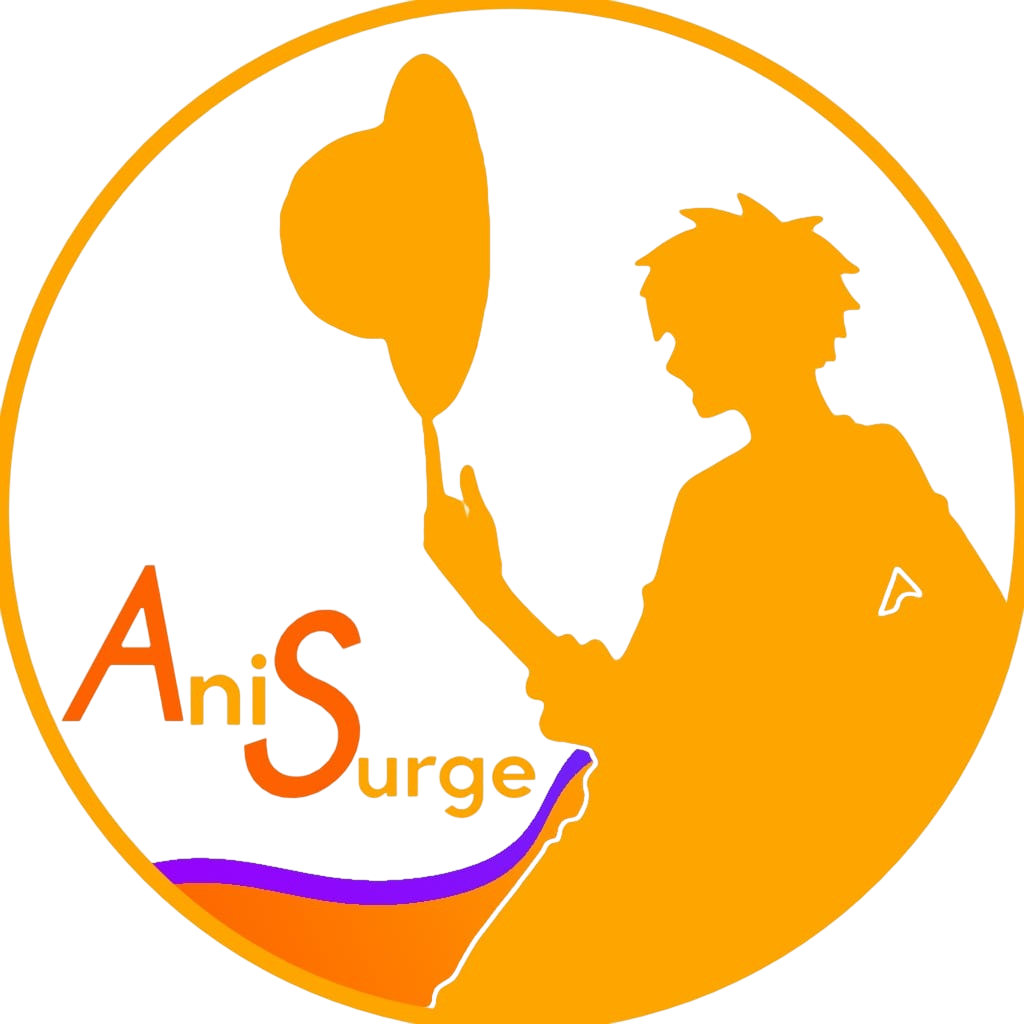
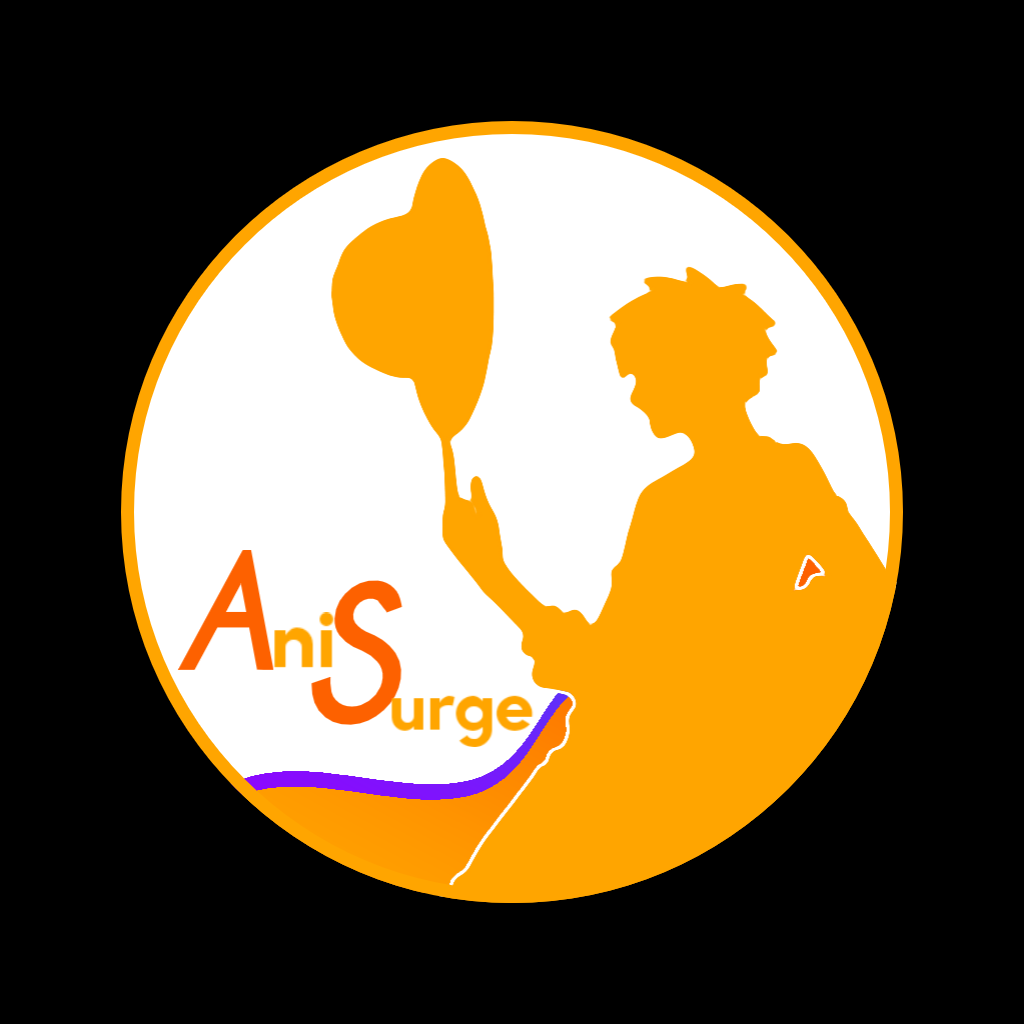
Enhance search functionality with advanced filtering and genre selection
- Add comprehensive search filters for anime type, genre, and sorting
- Implement dynamic filter UI with scrollable genre and type options
- Update search API integration to support advanced filtering
- Modify search screen layout to accommodate new filter section
- Update splash screen and app icon assets
- Refactor search component with improved state management

diff --git a/app/search.tsx b/app/search.tsx
@@ -1,10 +1,22 @@
-import { View, Text, StyleSheet, FlatList, Image, TouchableOpacity, ActivityIndicator, TextInput } from 'react-native';
+import { View, Text, StyleSheet, FlatList, Image, TouchableOpacity, ActivityIndicator, TextInput, ScrollView } from 'react-native';
 import { useEffect, useState } from 'react';
 import { useLocalSearchParams, router } from 'expo-router';
 import { LinearGradient } from 'expo-linear-gradient';
 import { MaterialIcons, Ionicons } from '@expo/vector-icons';
 import { useMyListStore } from '../store/myListStore';
+import { API_BASE, ENDPOINTS } from '../constants/api';
 
+// Add types for filters
+type FilterType = 'ALL' | 'TV' | 'MOVIE' | 'OVA' | 'ONA' | 'SPECIAL';
+type SortType = 'POPULARITY' | 'NEWEST' | 'TITLE';
+
+// Add genre type
+type Genre = {
+  id: string;
+  name: string;
+};
+
+// Update SearchAnime type
 type SearchAnime = {
   id: string;
   title: string;
@@ -14,7 +26,27 @@ type SearchAnime = {
   subOrDub?: string;
   episodeNumber?: number;
   status?: string;
+  genres?: string[];
 };
+
+// Add predefined genres
+const ANIME_GENRES = [
+  { id: 'action', name: 'Action' },
+  { id: 'adventure', name: 'Adventure' },
+  { id: 'comedy', name: 'Comedy' },
+  { id: 'drama', name: 'Drama' },
+  { id: 'fantasy', name: 'Fantasy' },
+  { id: 'horror', name: 'Horror' },
+  { id: 'mecha', name: 'Mecha' },
+  { id: 'mystery', name: 'Mystery' },
+  { id: 'psychological', name: 'Psychological' },
+  { id: 'romance', name: 'Romance' },
+  { id: 'sci-fi', name: 'Sci-Fi' },
+  { id: 'slice-of-life', name: 'Slice of Life' },
+  { id: 'sports', name: 'Sports' },
+  { id: 'supernatural', name: 'Supernatural' },
+  { id: 'thriller', name: 'Thriller' }
+];
 
 export default function Search() {
   const { query } = useLocalSearchParams();
@@ -26,25 +58,73 @@ export default function Search() {
   const [totalPages, setTotalPages] = useState(1);
   const { isBookmarked, addAnime, removeAnime } = useMyListStore();
 
+  // Add new states for filters
+  const [selectedType, setSelectedType] = useState<FilterType>('ALL');
+  const [selectedSort, setSelectedSort] = useState<SortType>('POPULARITY');
+  const [genres] = useState<Genre[]>(ANIME_GENRES);
+  const [selectedGenres, setSelectedGenres] = useState<string[]>([]);
+  const [showFilters, setShowFilters] = useState(false);
+
+  // Add filter options
+  const typeFilters: FilterType[] = ['ALL', 'TV', 'MOVIE', 'OVA', 'ONA', 'SPECIAL'];
+  const sortOptions: SortType[] = ['POPULARITY', 'NEWEST', 'TITLE'];
+
   const handleSearch = (text: string) => {
     setSearchText(text);
+    setCurrentPage(1);
     const apiQuery = text.toLowerCase().trim().replace(/\s+/g, '-');
     router.setParams({ query: apiQuery });
   };
 
+  // Add genre toggle handler
+  const toggleGenre = (genreId: string) => {
+    setSelectedGenres(prev => 
+      prev.includes(genreId) 
+        ? prev.filter(id => id !== genreId)
+        : [...prev, genreId]
+    );
+    setCurrentPage(1);
+  };
+
   useEffect(() => {
-    if (searchText) {
+    if (searchText || selectedGenres.length > 0 || selectedType !== 'ALL') {
       searchAnime();
     }
-  }, [searchText]);
+  }, [searchText, selectedType, selectedSort, selectedGenres, currentPage]);
 
   const searchAnime = async () => {
     try {
       setLoading(true);
       const apiQuery = searchText.toLowerCase().trim().replace(/\s+/g, '-');
-      const response = await fetch(
-        `https://conapi.anipro.site/anime/animekai/${encodeURIComponent(apiQuery)}`
-      );
+      
+      // Build query parameters
+      const params = new URLSearchParams({
+        page: currentPage.toString(),
+        type: selectedType !== 'ALL' ? selectedType.toLowerCase() : '',
+        sort: selectedSort.toLowerCase(),
+      });
+
+      let url;
+      if (!apiQuery && selectedGenres.length > 0) {
+        // Use genre endpoint with the first selected genre
+        url = `${API_BASE}${ENDPOINTS.GENRE.replace(':genre', selectedGenres[0])}?${params}`;
+      } else if (!apiQuery && selectedType !== 'ALL') {
+        // Use type endpoint if only type is selected
+        const typeEndpoint = selectedType === 'MOVIE' ? ENDPOINTS.MOVIES :
+                           selectedType === 'OVA' ? ENDPOINTS.OVA :
+                           selectedType === 'ONA' ? ENDPOINTS.ONA :
+                           selectedType === 'SPECIAL' ? ENDPOINTS.SPECIALS :
+                           ENDPOINTS.TV;
+        url = `${API_BASE}${typeEndpoint}?${params}`;
+      } else if (apiQuery) {
+        // Use search endpoint if there's a search query
+        url = `${API_BASE}${ENDPOINTS.SEARCH.replace(':query', apiQuery)}?${params}`;
+      } else {
+        // Default to trending if no filters
+        url = `${API_BASE}${ENDPOINTS.TRENDING}?${params}`;
+      }
+
+      const response = await fetch(url);
       
       if (!response.ok) {
         throw new Error(`HTTP error! status: ${response.status}`);
@@ -52,7 +132,8 @@ export default function Search() {
       
       const data = await response.json();
       
-      const transformedResults = data.results.map((item: any) => ({
+      // Check if data.results exists before mapping
+      const transformedResults = data?.results?.map((item: any) => ({
         id: item.id,
         title: item.title || 'Unknown Title',
         image: item.image || '',
@@ -60,15 +141,16 @@ export default function Search() {
         releaseDate: item.releaseDate || '',
         subOrDub: item.subOrDub || 'sub',
         episodeNumber: item.episodeNumber || 0,
-        status: item.status || 'Unknown'
-      }));
+        status: item.status || 'Unknown',
+        genres: item.genres || []
+      })) || [];
 
-      setResults(transformedResults);
+      setResults(currentPage === 1 ? transformedResults : [...results, ...transformedResults]);
       setHasNextPage(data.hasNextPage || false);
       setTotalPages(data.totalPages || 1);
     } catch (error) {
       console.error('Error searching anime:', error);
-      setResults([]);
+      setResults(currentPage === 1 ? [] : results);
       setHasNextPage(false);
       setTotalPages(1);
     } finally {
@@ -81,6 +163,94 @@ export default function Search() {
       setCurrentPage(prev => prev + 1);
     }
   };
+
+  // Add Filter Section Component
+  const FilterSection = () => (
+    <View style={styles.filterSection}>
+      {/* Type Filters */}
+      <View key="type-section">
+        <ScrollView 
+          horizontal 
+          showsHorizontalScrollIndicator={false}
+        >
+          <View style={styles.filterGroup}>
+            {typeFilters.map((type, index) => (
+              <TouchableOpacity
+                key={`type-${type}-${index}`}
+                style={[
+                  styles.filterButton,
+                  selectedType === type && styles.filterButtonActive
+                ]}
+                onPress={() => setSelectedType(type)}
+              >
+                <Text style={[
+                  styles.filterText,
+                  selectedType === type && styles.filterTextActive
+                ]}>
+                  {type}
+                </Text>
+              </TouchableOpacity>
+            ))}
+          </View>
+        </ScrollView>
+      </View>
+
+      {/* Genre Filters */}
+      <View key="genre-section">
+        <ScrollView 
+          horizontal 
+          showsHorizontalScrollIndicator={false}
+          style={styles.genreContainer}
+        >
+          {genres.map((genre, index) => (
+            <TouchableOpacity
+              key={`genre-${genre.id}-${index}`}
+              style={[
+                styles.genreButton,
+                selectedGenres.includes(genre.id) && styles.genreButtonActive
+              ]}
+              onPress={() => toggleGenre(genre.id)}
+            >
+              <Text style={[
+                styles.genreText,
+                selectedGenres.includes(genre.id) && styles.genreTextActive
+              ]}>
+                {genre.name}
+              </Text>
+            </TouchableOpacity>
+          ))}
+        </ScrollView>
+      </View>
+
+      {/* Sort Options */}
+      <View key="sort-section">
+        <ScrollView 
+          horizontal 
+          showsHorizontalScrollIndicator={false}
+        >
+          <View style={styles.filterGroup}>
+            {sortOptions.map((sort, index) => (
+              <TouchableOpacity
+                key={`sort-${sort}-${index}`}
+                style={[
+                  styles.filterButton,
+                  selectedSort === sort && styles.filterButtonActive
+                ]}
+                onPress={() => setSelectedSort(sort)}
+              >
+                <Text style={[
+                  styles.filterText,
+                  selectedSort === sort && styles.filterTextActive
+                ]}>
+                  {sort}
+                </Text>
+              </TouchableOpacity>
+            ))}
+          </View>
+        </ScrollView>
+      </View>
+    </View>
+  );
 
   const renderAnimeCard = ({ item }: { item: SearchAnime }) => (
     <View style={styles.animeCardContainer}>
@@ -162,7 +332,19 @@ export default function Search() {
             </TouchableOpacity>
           ) : null}
         </View>
+        <TouchableOpacity 
+          style={styles.filterToggle}
+          onPress={() => setShowFilters(!showFilters)}
+        >
+          <MaterialIcons 
+            name="filter-list" 
+            size={24} 
+            color={showFilters ? "#f4511e" : "#666"} 
+          />
+        </TouchableOpacity>
       </View>
+
+      {showFilters && <FilterSection />}
 
       {searchText && (
         <Text style={styles.searchTitle}>Results for "{searchText}"</Text>
@@ -201,11 +383,14 @@ const styles = StyleSheet.create({
     backgroundColor: '#121212',
   },
   searchBarContainer: {
+    flexDirection: 'row',
+    alignItems: 'center',
     padding: 16,
     paddingBottom: 8,
     backgroundColor: '#1a1a1a',
   },
   searchBar: {
+    flex: 1,
     flexDirection: 'row',
     alignItems: 'center',
     backgroundColor: '#222',
@@ -318,6 +503,57 @@ const styles = StyleSheet.create({
     paddingVertical: 2,
     borderRadius: 4,
     fontSize: 10,
+    marginLeft: 8,
+  },
+  filterSection: {
+    backgroundColor: '#1a1a1a',
+    paddingVertical: 8,
+  },
+  filterGroup: {
+    flexDirection: 'row',
+    paddingHorizontal: 16,
+    paddingVertical: 8,
+  },
+  filterButton: {
+    paddingHorizontal: 16,
+    paddingVertical: 8,
+    borderRadius: 20,
+    backgroundColor: '#222',
+    marginRight: 8,
+  },
+  filterButtonActive: {
+    backgroundColor: '#f4511e',
+  },
+  filterText: {
+    color: '#666',
+    fontSize: 14,
+  },
+  filterTextActive: {
+    color: '#fff',
+  },
+  genreContainer: {
+    paddingHorizontal: 16,
+    paddingVertical: 8,
+  },
+  genreButton: {
+    paddingHorizontal: 12,
+    paddingVertical: 6,
+    borderRadius: 16,
+    backgroundColor: '#222',
+    marginRight: 8,
+  },
+  genreButtonActive: {
+    backgroundColor: '#f4511e',
+  },
+  genreText: {
+    color: '#666',
+    fontSize: 12,
+  },
+  genreTextActive: {
+    color: '#fff',
+  },
+  filterToggle: {
+    padding: 8,
     marginLeft: 8,
   },
 }); 
